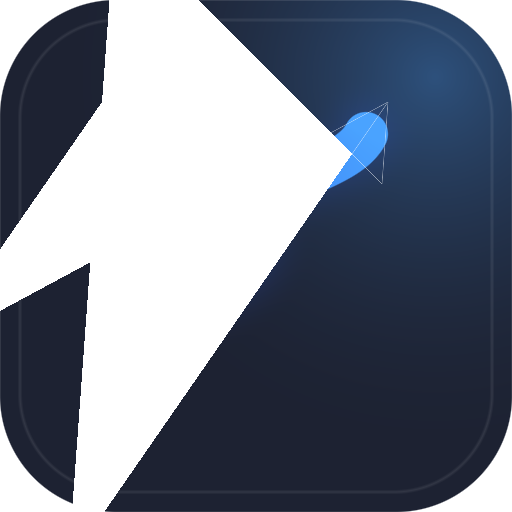
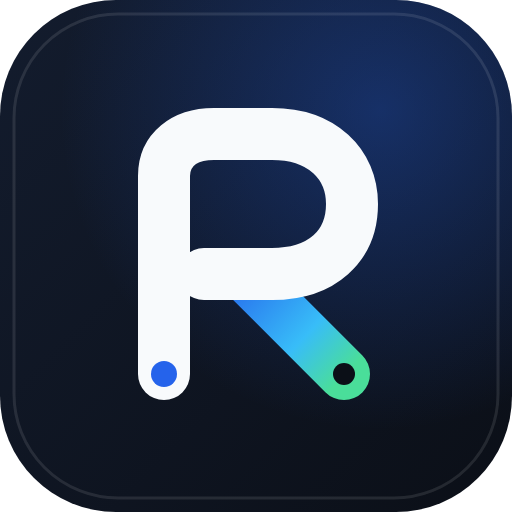
feat: update brand identity and meta tags
Refreshed the application logo and icon set, and added Open Graph and Twitter meta tags to improve social sharing and SEO visibility.

diff --git a/index.html b/index.html
@@ -14,14 +14,21 @@
       content="Controle de ganhos, gastos e quilômetros rodados para entregadores de moto."
     />
     <meta property="og:type" content="website" />
+    <meta property="og:image" content="/og-image.png" />
+    <meta property="og:image:width" content="1200" />
+    <meta property="og:image:height" content="630" />
+    <meta property="og:image:alt" content="Rota — Controle para Entregadores" />
     <meta name="twitter:card" content="summary_large_image" />
+    <meta name="twitter:image" content="/og-image.png" />
     <meta name="theme-color" content="#F6F7F9" />
     <meta name="mobile-web-app-capable" content="yes" />
     <meta name="apple-mobile-web-app-capable" content="yes" />
     <meta name="apple-mobile-web-app-status-bar-style" content="default" />
     <meta name="apple-mobile-web-app-title" content="Rota" />
-    <link rel="apple-touch-icon" href="/apple-touch-icon.png" />
+    <link rel="apple-touch-icon" sizes="180x180" href="/apple-touch-icon.png" />
     <link rel="icon" type="image/svg+xml" href="/icon.svg" />
+    <link rel="icon" type="image/png" sizes="32x32" href="/favicon-32x32.png" />
+    <link rel="icon" type="image/png" sizes="16x16" href="/favicon-16x16.png" />
     <script>
       (function () {
         try {

diff --git a/vite.config.ts b/vite.config.ts
@@ -73,10 +73,13 @@ export default defineConfig(() => {
         registerType: 'autoUpdate',
         includeAssets: [
           'icon.svg',
+          'favicon-32x32.png',
+          'favicon-16x16.png',
           'apple-touch-icon.png',
           'pwa-192x192.png',
           'pwa-512x512.png',
           'pwa-maskable-512x512.png',
+          'og-image.png',
         ],
         manifest: {
           id: '/',
